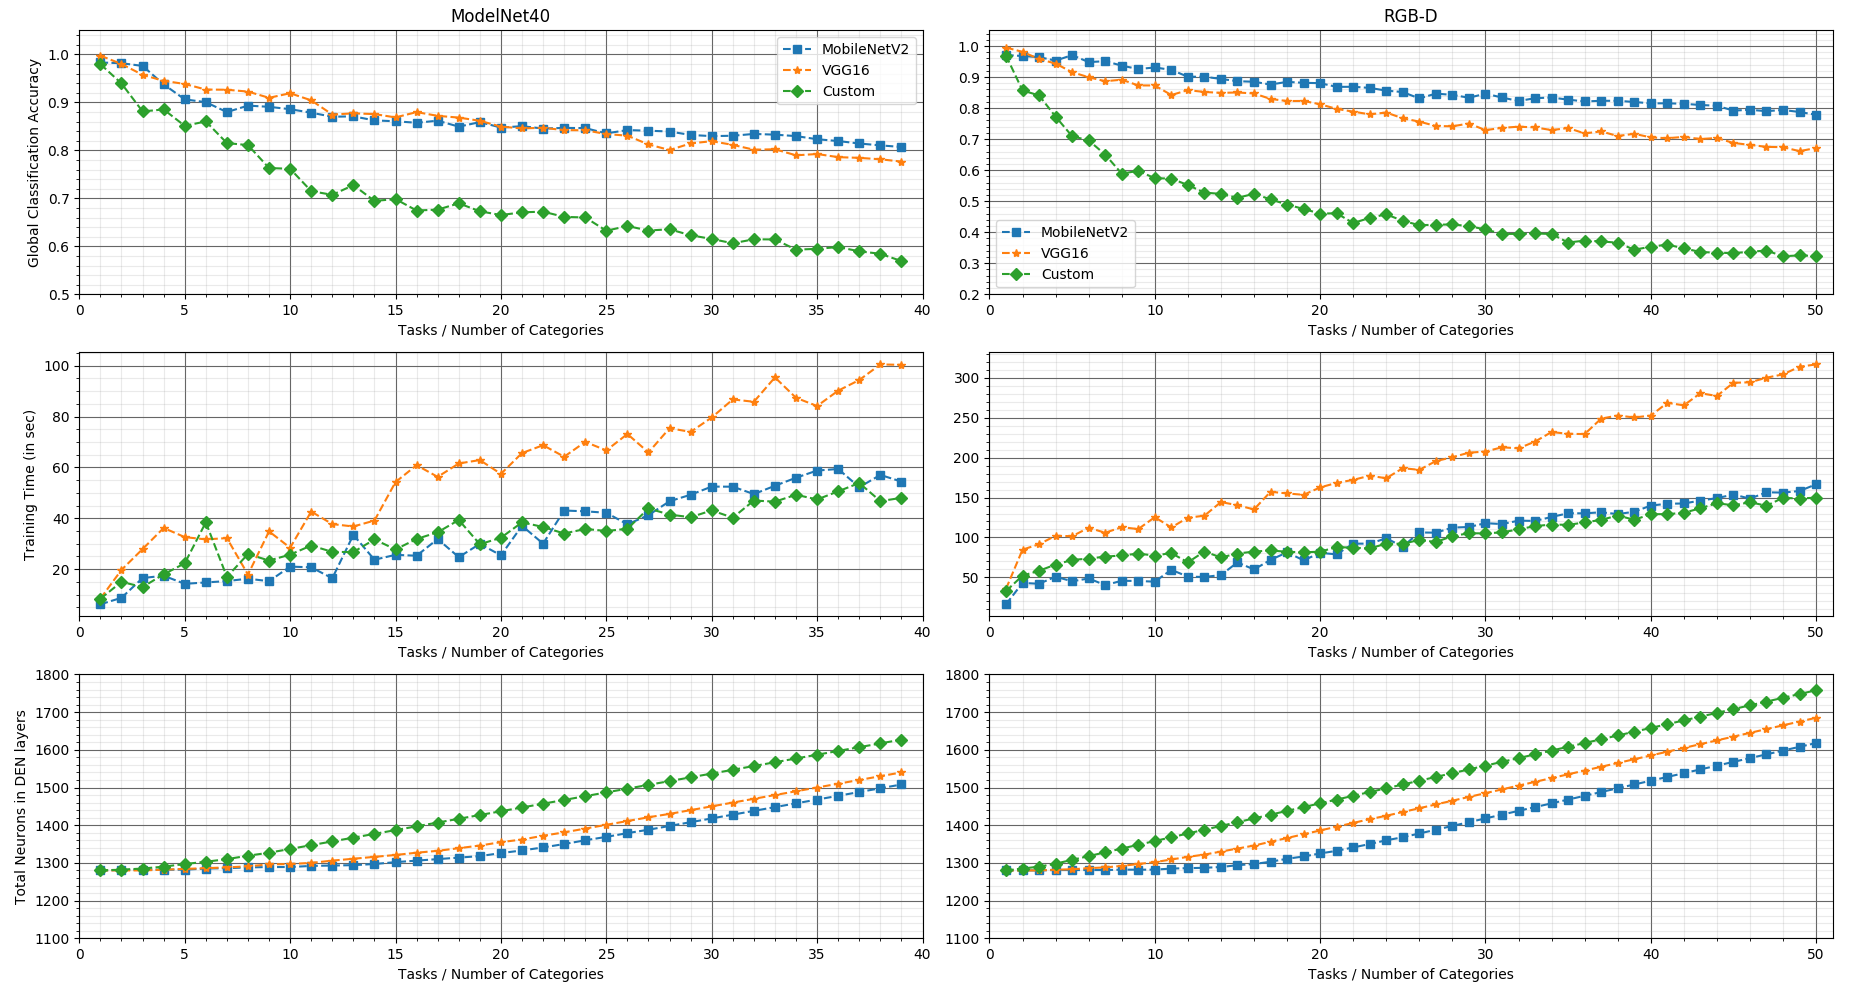
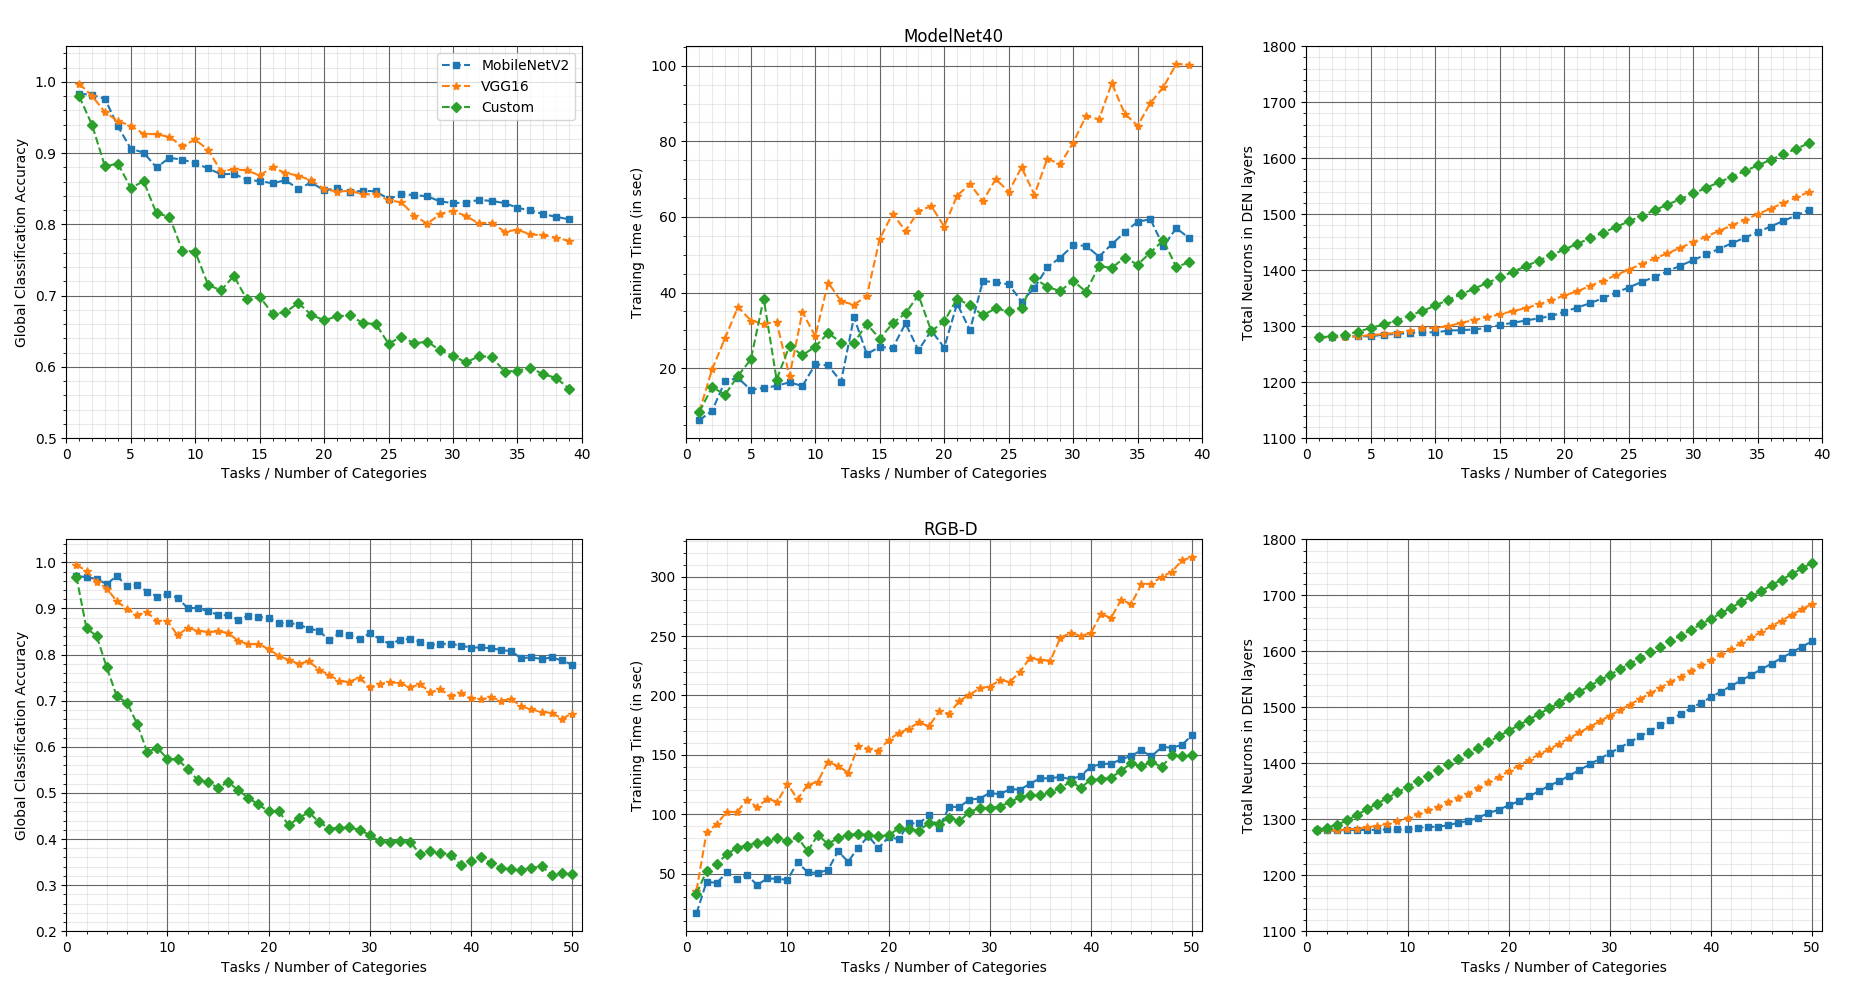
graph changes

diff --git a/Results/plot_graphs_all_dataset.py b/Results/plot_graphs_all_dataset.py
@@ -4,7 +4,7 @@ import cv2 as cv
 import gzip
 import matplotlib.pyplot as plt
 
-fig, a = plt.subplots(3, 2, figsize=(40, 20))
+fig, a = plt.subplots(2, 3, figsize=(40, 20))
 
 
 # ------------------------- ModelNet40 --------------------------
@@ -61,12 +61,11 @@ trials = [i+1 for i in range(10)]
 
 # axes= a[0].add_axes([0.1,0.1,0.8,0.4])
 
-a[0,0].plot(tasks, mobile, marker='s', linestyle='dashed')
+a[0,0].plot(tasks, mobile, marker='s', linestyle='dashed', ms=5)
 a[0,0].plot(tasks, vgg, marker='*', linestyle='dashed')
-a[0,0].plot(tasks, custom, marker='D', linestyle='dashed')
+a[0,0].plot(tasks, custom, marker='D', linestyle='dashed', ms=5)
 a[0,0].set_xlim(0,40)
 a[0,0].set_ylim(0.50,1.05)
-a[0,0].set_title('ModelNet40')
 a[0,0].legend(["MobileNetV2", "VGG16", "Custom"])
 
 a[0,0].minorticks_on()
@@ -80,6 +79,10 @@ a[0,0].grid(b=True, which='minor', color='#999999', linestyle='-', alpha=0.2)
 a[0,0].set_xlabel("Tasks / Number of Categories")
 a[0,0].set_ylabel("Global Classification Accuracy")
 # plt.xticks(tasks, tasks, rotation='horizontal')
+
+# a[0,0].annotate('ModelNet40', xy=(0, 0.5), xytext=(-a[0,0].yaxis.labelpad - 5, 0), rotation=90,
+#                 xycoords=a[0,0].yaxis.label, textcoords='offset points',
+#                 size='large', ha='right', va='center')
 
 
 # -------- Training Time -----------
@@ -107,23 +110,27 @@ for acc in time_custom:
 
 t_custom = np.array(t_custom) / 10.0
 
-a[1,0].plot(tasks, t_mobile, marker='s', linestyle='dashed')
-a[1,0].plot(tasks, t_vgg, marker='*', linestyle='dashed')
-a[1,0].plot(tasks, t_custom, marker='D', linestyle='dashed')
-a[1,0].set_xlim(0,40)
+a[0,1].plot(tasks, t_mobile, marker='s', linestyle='dashed', ms=5)
+a[0,1].plot(tasks, t_vgg, marker='*', linestyle='dashed')
+a[0,1].plot(tasks, t_custom, marker='D', linestyle='dashed', ms=5)
+a[0,1].set_xlim(0,40)
 # a[1].set_ylim(0.0, 110, 10)
 # a[0].legend(["MobileNetV2", "VGG16", "Custom"])
 
-a[1,0].minorticks_on()
+a[0,1].minorticks_on()
 
 # a[1].set_xticks(np.arange(0, max(tasks)+1, 5))
 # a[1].set_yticks(np.arange(0, 120, 10))
 # a[1].tick_params(labelsize='large')
-a[1,0].grid(b=True, which='major', color='#666666', linestyle='-')
-a[1,0].grid(b=True, which='minor', color='#999999', linestyle='-', alpha=0.2)
+a[0,1].grid(b=True, which='major', color='#666666', linestyle='-')
+a[0,1].grid(b=True, which='minor', color='#999999', linestyle='-', alpha=0.2)
 
-a[1,0].set_xlabel("Tasks / Number of Categories")
-a[1,0].set_ylabel("Training Time (in sec)")
+a[0,1].set_xlabel("Tasks / Number of Categories")
+a[0,1].set_ylabel("Training Time (in sec)")
+
+a[0,1].annotate('ModelNet40', xy=(0.3, 1), xytext=(0, 310),
+                xycoords=a[0,1].xaxis.label, textcoords='offset points',
+                size='large', ha='left', va='center')
 
 
 # -------- Layer Sizes -----------
@@ -152,23 +159,23 @@ for s in size_custom:
 
 s_custom = np.array(s_custom) / 10.0
 
-a[2,0].plot(tasks, s_mobile, marker='s', linestyle='dashed')
-a[2,0].plot(tasks, s_vgg, marker='*', linestyle='dashed')
-a[2,0].plot(tasks, s_custom, marker='D', linestyle='dashed')
-a[2,0].set_xlim(0,40)
-a[2,0].set_ylim(1100, 1800)
+a[0,2].plot(tasks, s_mobile, marker='s', linestyle='dashed', ms=5)
+a[0,2].plot(tasks, s_vgg, marker='*', linestyle='dashed')
+a[0,2].plot(tasks, s_custom, marker='D', linestyle='dashed', ms=5)
+a[0,2].set_xlim(0,40)
+a[0,2].set_ylim(1100, 1800)
 # a[0].legend(["MobileNetV2", "VGG16", "Custom"])
 
-a[2,0].minorticks_on()
+a[0,2].minorticks_on()
 
 # a[2].set_xticks(np.arange(0, max(tasks)+1, 1))
 # a[2].set_yticks(np.arange(0, 120, 10))
 # a[2].tick_params(labelsize='large')
-a[2,0].grid(b=True, which='major', color='#666666', linestyle='-')
-a[2,0].grid(b=True, which='minor', color='#999999', linestyle='-', alpha=0.2)
+a[0,2].grid(b=True, which='major', color='#666666', linestyle='-')
+a[0,2].grid(b=True, which='minor', color='#999999', linestyle='-', alpha=0.2)
 
-a[2,0].set_xlabel("Tasks / Number of Categories")
-a[2,0].set_ylabel("Total Neurons in DEN layers")
+a[0,2].set_xlabel("Tasks / Number of Categories")
+a[0,2].set_ylabel("Total Neurons in DEN layers")
 
 
 
@@ -232,26 +239,24 @@ trials = [i+1 for i in range(10)]
 
 # axes= a[0].add_axes([0.1,0.1,0.8,0.4])
 
-a[0,1].plot(tasks, mobile, marker='s', linestyle='dashed')
-a[0,1].plot(tasks, vgg, marker='*', linestyle='dashed')
-a[0,1].plot(tasks, custom, marker='D', linestyle='dashed')
-a[0,1].set_xlim(0,51)
-a[0,1].set_ylim(0.20,1.05)
-a[0,1].set_title('RGB-D')
-a[0,1].legend(["MobileNetV2", "VGG16", "Custom"])
+a[1,0].plot(tasks, mobile, marker='s', linestyle='dashed', ms=5)
+a[1,0].plot(tasks, vgg, marker='*', linestyle='dashed')
+a[1,0].plot(tasks, custom, marker='D', linestyle='dashed', ms=5)
+a[1,0].set_xlim(0,51)
+a[1,0].set_ylim(0.20,1.05)
+# a[1,0].legend(["MobileNetV2", "VGG16", "Custom"])
 
-a[0,1].minorticks_on()
+a[1,0].minorticks_on()
 
 # plt.xticks(np.arange(0, max(tasks)+1, 5))
 # a[0].set_yticks(np.arange(0.50, 1.05, 0.05))
 # a[0].tick_params(labelsize='large')
-a[0,1].grid(b=True, which='major', color='#666666', linestyle='-')
-a[0,1].grid(b=True, which='minor', color='#999999', linestyle='-', alpha=0.2)
+a[1,0].grid(b=True, which='major', color='#666666', linestyle='-')
+a[1,0].grid(b=True, which='minor', color='#999999', linestyle='-', alpha=0.2)
 
-a[0,1].set_xlabel("Tasks / Number of Categories")
-# a[0,1].set_ylabel("Global Classification Accuracy")
+a[1,0].set_xlabel("Tasks / Number of Categories")
+a[1,0].set_ylabel("Global Classification Accuracy")
 # plt.xticks(tasks, tasks, rotation='horizontal')
-
 
 # -------- Training Time -----------
 
@@ -278,9 +283,9 @@ for acc in time_custom:
 
 t_custom = np.array(t_custom) / 10.0
 
-a[1,1].plot(tasks, t_mobile, marker='s', linestyle='dashed')
+a[1,1].plot(tasks, t_mobile, marker='s', linestyle='dashed', ms=5)
 a[1,1].plot(tasks, t_vgg, marker='*', linestyle='dashed')
-a[1,1].plot(tasks, t_custom, marker='D', linestyle='dashed')
+a[1,1].plot(tasks, t_custom, marker='D', linestyle='dashed', ms=5)
 a[1,1].set_xlim(0,51)
 # a[1].set_ylim(0.0, 110, 10)
 # a[0].legend(["MobileNetV2", "VGG16", "Custom"])
@@ -294,7 +299,12 @@ a[1,1].grid(b=True, which='major', color='#666666', linestyle='-')
 a[1,1].grid(b=True, which='minor', color='#999999', linestyle='-', alpha=0.2)
 
 a[1,1].set_xlabel("Tasks / Number of Categories")
-# a[1,1].set_ylabel("Training Time (in sec)")
+a[1,1].set_ylabel("Training Time (in sec)")
+
+a[1,1].annotate('RGB-D', xy=(0.4, 1), xytext=(0, 310),
+                xycoords=a[1,1].xaxis.label, textcoords='offset points',
+                size='large', ha='left', va='center')
+
 
 
 # -------- Layer Sizes -----------
@@ -323,23 +333,25 @@ for s in size_custom:
 
 s_custom = np.array(s_custom) / 10.0
 
-a[2,1].plot(tasks, s_mobile, marker='s', linestyle='dashed')
-a[2,1].plot(tasks, s_vgg, marker='*', linestyle='dashed')
-a[2,1].plot(tasks, s_custom, marker='D', linestyle='dashed')
-a[2,1].set_xlim(0,51)
-a[2,1].set_ylim(1100, 1800)
+a[1,2].plot(tasks, s_mobile, marker='s', linestyle='dashed', ms=5)
+a[1,2].plot(tasks, s_vgg, marker='*', linestyle='dashed')
+a[1,2].plot(tasks, s_custom, marker='D', linestyle='dashed', ms=5)
+a[1,2].set_xlim(0,51)
+a[1,2].set_ylim(1100, 1800)
 # a[0].legend(["MobileNetV2", "VGG16", "Custom"])
 
-a[2,1].minorticks_on()
+a[1,2].minorticks_on()
 
 # a[2].set_xticks(np.arange(0, max(tasks)+1, 1))
 # a[2].set_yticks(np.arange(0, 120, 10))
 # a[2].tick_params(labelsize='large')
-a[2,1].grid(b=True, which='major', color='#666666', linestyle='-')
-a[2,1].grid(b=True, which='minor', color='#999999', linestyle='-', alpha=0.2)
+a[1,2].grid(b=True, which='major', color='#666666', linestyle='-')
+a[1,2].grid(b=True, which='minor', color='#999999', linestyle='-', alpha=0.2)
 
-a[2,1].set_xlabel("Tasks / Number of Categories")
-# a[2,1].set_ylabel("Total Neurons in DEN layers")
+a[1,2].set_xlabel("Tasks / Number of Categories")
+a[1,2].set_ylabel("Total Neurons in DEN layers")
 
 # plt.axis([0.0, 40, 0.7, 1])
+
+# fig.tight_layout()
 plt.show()
